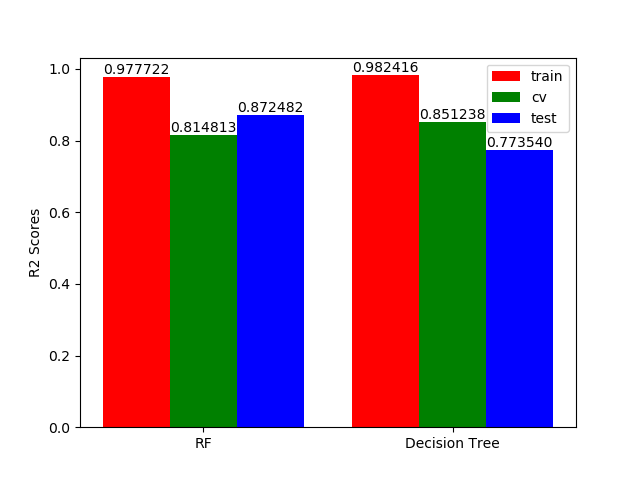
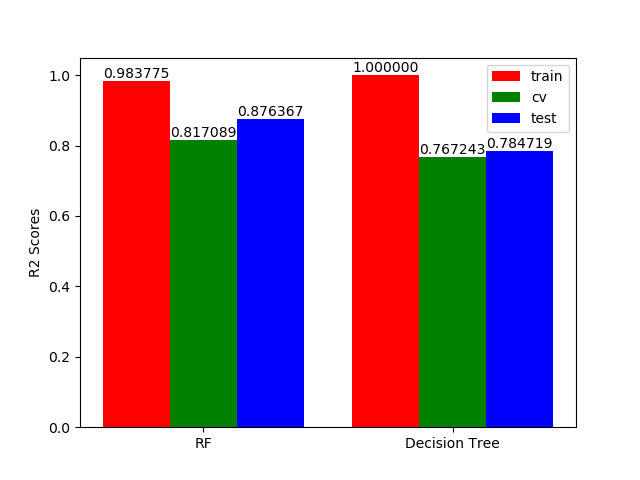
seed for decision tree and rf updated

diff --git a/py_scripts/run_toolchain.py b/py_scripts/run_toolchain.py
@@ -5,11 +5,9 @@ from py_scripts.DecisionAlgorithm import DecisionTreeRegressionTraining
 from py_scripts.Analysis import Analysis
 from py_scripts.utils import regressor_test
 
-import numpy as np
-
 
 def run_toolchain(db_path, continuous_parameters, discrete_parameters, ordinal_parameters, nominal_parameters, protocol,
-                  n_trees, criterion, rf_seed, max_tree_depth_rf, max_tree_depth_dt, save_fig):
+                  n_trees, criterion, seed, max_tree_depth_rf, max_tree_depth_dt, save_fig):
 
     print("1. Load Database")
     house_price_db = HousePricesDatabase(db_path, continuous_parameters, discrete_parameters, ordinal_parameters,
@@ -22,12 +20,12 @@ def run_toolchain(db_path, continuous_parameters, discrete_parameters, ordinal_p
 
     print("3. Algorithm train")
     print("-----> RF")
-    rf_train = RandomForestTraining(n_trees, criterion, rf_seed, max_tree_depth_rf, X, y)
+    rf_train = RandomForestTraining(n_trees, criterion, seed, max_tree_depth_rf, X, y)
     rf_regressor, rf_y_predict_train, rf_y_predict_cv = rf_train()
 
     print("-----> Decision Tree")
     # Put here your code :)
-    decision_train = DecisionTreeRegressionTraining(criterion, rf_seed, max_tree_depth_dt, X, y)
+    decision_train = DecisionTreeRegressionTraining(criterion, seed, max_tree_depth_dt, X, y)
     dt_regressor, dt_y_predict_train, dt_y_predict_cv = decision_train()
 
     print("5. Algorithm testing")

diff --git a/py_scripts/DecisionAlgorithm.py b/py_scripts/DecisionAlgorithm.py
@@ -1,5 +1,6 @@
 from sklearn.tree import DecisionTreeRegressor
 from py_scripts.utils import regressor_training
+import random
 
 
 class DecisionTreeRegressionTraining():
@@ -7,7 +8,7 @@ class DecisionTreeRegressionTraining():
     def __init__(self, criterion, max_tree_depth, seed, input, target):
         self.criterion = criterion
         self.max_tree_depth = max_tree_depth
-        self.seed = seed
+        self.dt_seed = seed
 
         self.target_train = target[0]
         self.target_cv = target[1]
@@ -16,6 +17,6 @@ class DecisionTreeRegressionTraining():
 
     def __call__(self):
         regressor = DecisionTreeRegressor(criterion=self.criterion, max_depth=self.max_tree_depth,
-                                          random_state=self.seed)
+                                          random_state=self.dt_seed)
 
         return regressor_training(regressor, self.x_train, self.x_cv, self.target_train, self.target_cv, self.criterion)

diff --git a/toolchain_relevant_params.py b/toolchain_relevant_params.py
@@ -16,12 +16,12 @@ protocol = [0.8, 0.1, 0.1]
 max_tree_depth_rf = 10
 n_trees = 50
 criterion = "mse"
-rf_seed = 10  # Used to fix the random_state of RF and decision tree regressors to ensure reproducibility
 
 # Decision trees details:
 max_tree_depth_dt = 100
 
 save_fig = './results/relevant_params_results.png'
+seed = 42  # Used to fix the random_state of RF and decision tree regressors to ensure reproducibility
 
 run_toolchain(db_path, continuous_parameters, discrete_parameters, ordinal_parameters, nominal_parameters, protocol,
-              n_trees, criterion, rf_seed, max_tree_depth_rf, max_tree_depth_dt, save_fig)
+              n_trees, criterion, seed, max_tree_depth_rf, max_tree_depth_dt, save_fig)

diff --git a/toolchain_all_params.py b/toolchain_all_params.py
@@ -27,12 +27,12 @@ protocol = [0.8, 0.1, 0.1]
 max_tree_depth_rf = 10
 n_trees = 50
 criterion = "mse"
-rf_seed = 10  # Used to fix the random_state of RF and decision tree regressors to ensure reproducibility
 
 # Decision trees details:
 max_tree_depth_dt = 100
 
 save_fig = './results/all_params_results.png'
+seed = 42  # Used to fix the random_state of RF and decision tree regressors to ensure reproducibility
 
 run_toolchain(db_path, continuous_parameters, discrete_parameters, ordinal_parameters, nominal_parameters, protocol,
-              n_trees, criterion, rf_seed, max_tree_depth_rf, max_tree_depth_dt, save_fig)
+              n_trees, criterion, seed, max_tree_depth_rf, max_tree_depth_dt, save_fig)

diff --git a/py_scripts/RFAlgorithm.py b/py_scripts/RFAlgorithm.py
@@ -1,5 +1,6 @@
 from sklearn.ensemble import RandomForestRegressor
 from py_scripts.utils import regressor_training
+import random
 
 
 class RandomForestTraining():
@@ -19,5 +20,4 @@ class RandomForestTraining():
         regressor = RandomForestRegressor(n_estimators=self.n_trees, criterion=self.criterion,
                                           max_depth=self.max_tree_depth, random_state=self.rf_seed)
 
-        return regressor_training(regressor, self.x_train, self.x_cv, self.target_train, self.target_cv,
-                                    self.criterion)
+        return regressor_training(regressor, self.x_train, self.x_cv, self.target_train, self.target_cv, self.criterion)

diff --git a/py_scripts/utils.py b/py_scripts/utils.py
@@ -1,6 +1,7 @@
 import numpy as np
 import nose
 
+
 def mse(y_pred, y_target):
     return np.mean((y_pred - y_target) ** 2)
 
